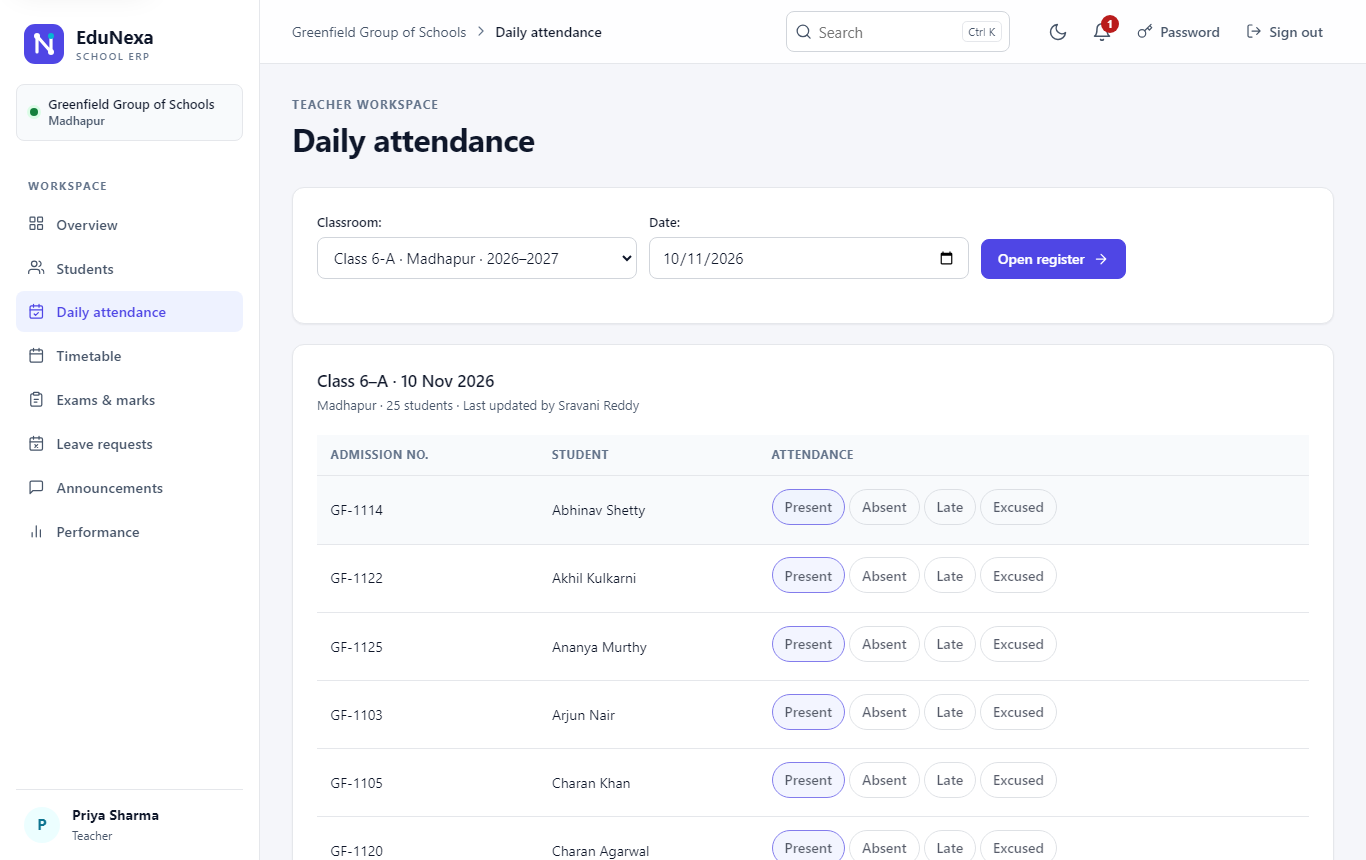
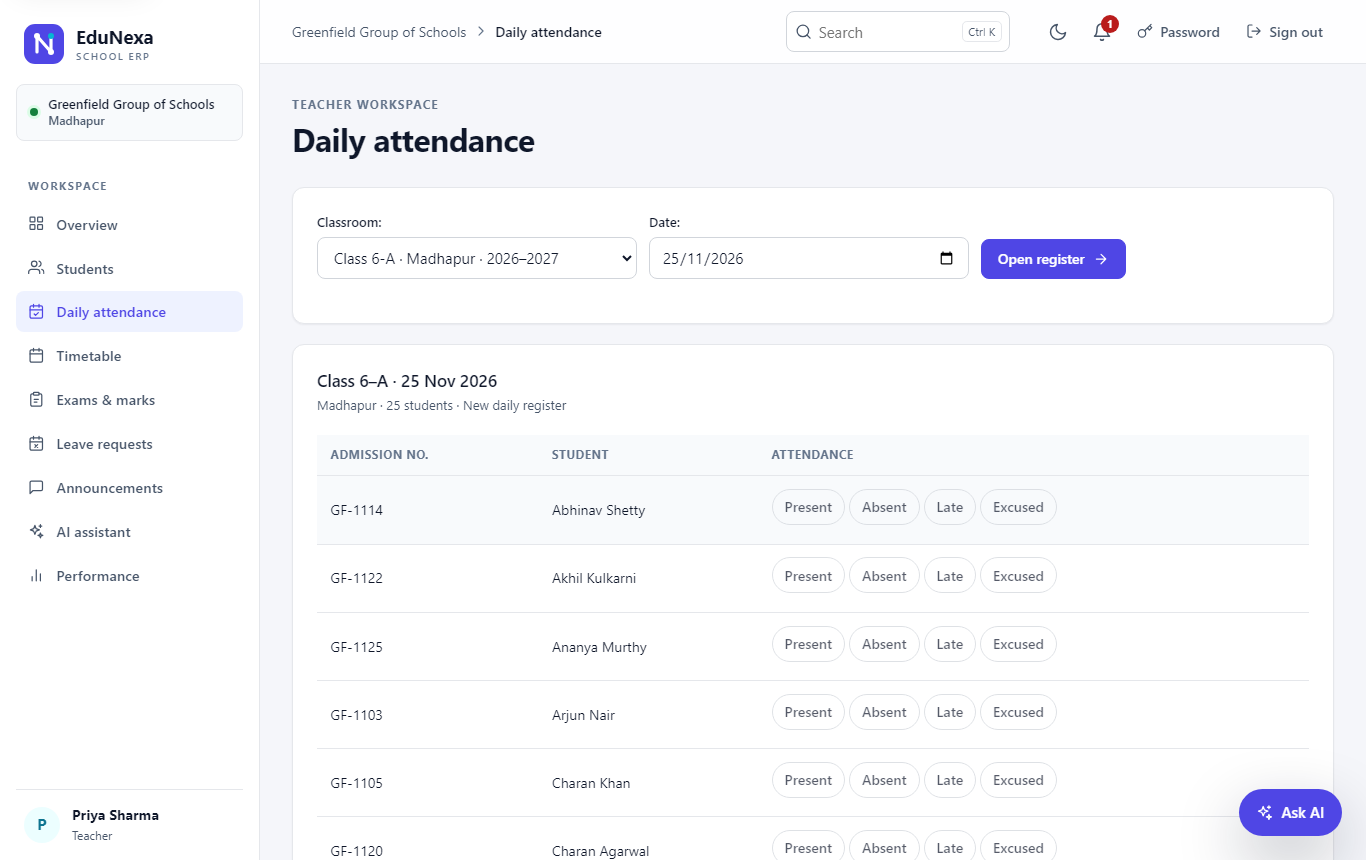
docs: refresh the screenshots and add the AI assistant

diff --git a/README.md b/README.md
@@ -18,6 +18,8 @@ EduNexa runs the daily work of a school group: branches, classrooms and teachers
 | ![Timetable editing](docs/screenshots/timetable.png) | ![Student report in dark mode](docs/screenshots/student-report-dark.png) |
 | **Search with Ctrl+K** | **Parent portal on a phone** |
 | ![Global search](docs/screenshots/search.png) | ![Parent overview on a phone](docs/screenshots/parent-phone.png) |
+| **AI assistant beside any page** | **REST API (OpenAPI docs)** |
+| ![AI assistant answering a teacher's question](docs/screenshots/ai-assistant.png) | ![API documentation](docs/screenshots/api-docs.png) |
 
 ## What it does
 
